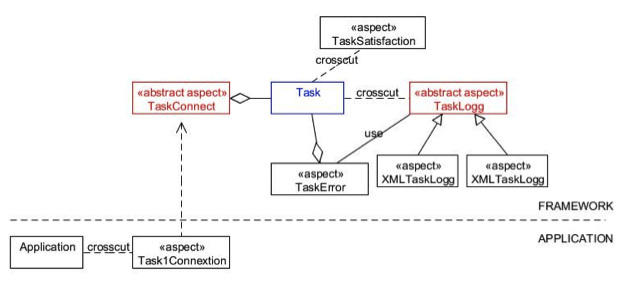
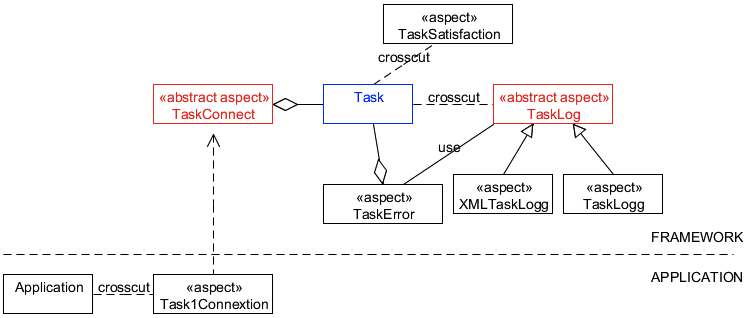
se modificaron los tex segun reunion 2/7, se reemplazaron 2 figuras y se formateo bibliografia

Changed region(s): [[0.0, 0.0, 1.0, 1.0]]

diff --git a/secciones/framework_aspectual.tex b/secciones/framework_aspectual.tex
@@ -1,20 +1,18 @@
 \section{Framework Aspectual para aplicaciones de escritorio orientado a tareas}
 \label{sec:framework_aspectual}
 
-Los frameworks~\cite{JOHNSON1997} [y] pueden reducir los costos de desarrollo ya que permiten a los desarrolladores reusar experiencias previas en la resolución de problemas en los niveles de diseño e implementación del software. Investigaciones anteriores han demostrado que se pueden lograr altos niveles de reutilización del software a través del uso de frameworks ya que capturan aspectos comunes de una familia de aplicaciones. 
-El esquema de la Fig.~\ref{fig:fig2} ilustra de manera general la aplicación del framework desarrollado. El objetivo del framework es proveer mecanismos que posibiliten la evaluación de usabilidad automática aplicando el modelo presentado en la Sección~\ref{sec:eval_usabilidad}. Para diferentes aplicaciones de escritorio se proporciona un conjunto de módulos (clases-aspectos) que mediante la especialización de ciertos aspectos abstractos permiten reusar el diseño e implementación para calcular métricas y obtener información de la eficiencia, efectividad y satisfacción de las tareas de usuario.
-
+Los frameworks~\cite{JOHNSON1997} pueden reducir los costos de desarrollo ya que permiten a los desarrolladores reusar experiencias previas en la resolución de problemas en los niveles de diseño e implementación del software. Investigaciones anteriores han demostrado que se pueden lograr altos niveles de reutilización del software a través del uso de frameworks ya que capturan aspectos comunes de una familia de aplicaciones. 
+El esquema de la Figura~\ref{fig:fig2} ilustra de manera general la aplicación del framework desarrollado. El objetivo del framework es proveer mecanismos que posibiliten la evaluación de usabilidad automática aplicando el modelo presentado en la Sección~\ref{sec:eval_usabilidad}. Para diferentes aplicaciones de escritorio se proporciona un conjunto de módulos (clases-aspectos) que mediante la especialización de ciertos aspectos abstractos permiten reusar el diseño e implementación para calcular métricas y obtener información de la eficiencia, efectividad y satisfacción de las tareas de usuario.
 %insertar fig2.png
 \begin{figure*}[ht!]
 	\centering
-	\includegraphics[scale=1]{figs/fig2.png}
+	\includegraphics[scale=0.70]{figs/fig2.png}
 	\caption{\label{fig:fig2} Esquema general del framework.}
 \end{figure*}
 
-
 \subsection{Requerimientos}
 \label{subsec:requerimientos}
-El framework ha sido construido desde cero aplicando un proceso iterativo de sucesivos refinamientos. Inicialmente se estableció el concepto y alcance de tarea. Definitivamente la tarea es un conjunto de acciones \colorbox{green}{significativas para el usuario} que ocurre-sucede durante la ejecución de la aplicación. Sin embargo, este concepto no está representado como entidad del sistema, por ser un concepto subyacente y subjetivo. La tarea entonces debe ser representada en el framework, resultando esta abstracción de una relevancia central dado que todo el framework requiere mantener relaciones e interacciones que son dependientes de la misma. Desde esta visión una  tarea es una entidad subyacente a la aplicación que requiere encapsular un conjunto de estados y comportamiento interno,  puesto que realiza una o más operaciones y provee un comportamiento global para lograr el objetivo específico. Por lo cual, cualquier y toda tarea podrá ser relacionada con algún evento del sistema que establece su inicio y también con otro evento que indica su finalización. Una tarea podrá ser instanciada diversas veces en la misma o distintas ejecuciones de la aplicación (sesiones), cada instancia deberá ser identificable, ya que comporta diferentes valores para los estados descriptores. 
+El framework ha sido construido desde cero aplicando un proceso iterativo de sucesivos refinamientos. Inicialmente se estableció el concepto y alcance de tarea. Definitivamente la tarea es un conjunto de acciones significativas para el evaluador que \colorbox{green}{ocurre-sucede} durante la ejecución de la aplicación. Sin embargo, este concepto no está representado como entidad del sistema, por ser un concepto subyacente y subjetivo. La tarea entonces debe ser representada en el framework, resultando esta abstracción de una relevancia central dado que todo el framework requiere mantener relaciones e interacciones que son dependientes de la misma. Desde esta visión una  tarea es una entidad subyacente a la aplicación que requiere encapsular un conjunto de estados y comportamiento interno,  puesto que realiza una o más operaciones y provee un comportamiento global para lograr el objetivo específico. Por lo cual, cualquier y toda tarea podrá ser relacionada con algún evento del sistema que establece su inicio y también con otro evento que indica su finalización. Una tarea podrá ser instanciada diversas veces en la misma o distintas ejecuciones de la aplicación (sesiones), cada instancia deberá ser identificable, ya que comporta diferentes valores para los estados descriptores. 
 
 A partir del planteo de un escenario general y abstracto se ha procedido a identificar el conjunto de eventos que desencadenan las acciones que ejecutará y/o controlará el framework y el tipo de módulo (clase o aspecto) del framework que será responsable de ejecutar la función correspondiente (Tabla~\ref{tab:tab1}).  Los  eventos se clasifican en dos categorías según su origen. Los eventos de la aplicación (se ha producido un error mientras se ejecutaba la tarea) o los eventos pueden ser activados  por el mismo framework (se instancia una tarea). Asimismo un evento puede desencadenar una o más acciones, las cuales pueden ser llevadas a cabo por distintos módulos. 
 
@@ -33,12 +31,12 @@ A partir del planteo de un escenario general y abstracto se ha procedido a ident
                     &                                                                                                   & A4  & Logging inicio de la tarea                                                           & Aspecto                     \\ \hline
 \multirow{2}{*}{E3} & \multirow{2}{*}{\begin{tabular}[c]{@{}l@{}}Ejecución del \\ fin de una tarea (D)\end{tabular}}    & A5  & Interceptar el fin de una tarea                                                      & \multirow{2}{*}{Aspecto}    \\ \cline{3-4}
                     &                                                                                                   & A6  & Ordenar el fin de la tarea                                                           &                             \\ \hline
-\multirow{3}{*}{E4} & \multirow{3}{*}{Finalizar la tarea (F)}                                                           & A10 & Registrar fin de la tarea                                                            & Clase                       \\ \cline{3-5} 
-                    &                                                                                                   & A11 & \begin{tabular}[c]{@{}l@{}}Proporcionar el \\ Cuestionario Satisfacción\end{tabular} & \multirow{2}{*}{Aspecto}    \\ \cline{3-4}
-                    &                                                                                                   & A12 & Logging Datos del fin de la tarea                                                    &                             \\ \hline
-\multirow{3}{*}{E5} & \multirow{3}{*}{Seproduce un error (D)}                                                           & A7  & Identificar el error                                                                 & \multirow{2}{*}{Aspecto}    \\ \cline{3-4}
-                    &                                                                                                   & A8  & Logging errores                                                                      &                             \\ \cline{3-5} 
-                    &                                                                                                   & A9  & Contabilizar error                                                                   & Clase                       \\ \hline
+\multirow{3}{*}{E4} & \multirow{3}{*}{Se produce un error (D)}                                                          & A7 & Identificar el error                                                                  & \multirow{2}{*}{Aspecto}    \\ \cline{3-4} 
+                    &                                                                                                   & A8 & Logging errores									     &  	   		   \\ \cline{3-5}
+                    &                                                                                                   & A9 & Contabilizar error                                                                    & Clase                       \\ \hline
+\multirow{3}{*}{E5} & \multirow{3}{*}{Finalizar la tarea (F)}                                                           & A10  & Registrar fin de la tarea                                                           & Clase    		   \\ \cline{3-5}
+                    &                                                                                                   & A11  & \begin{tabular}[c]{@{}l@{}}Proporcionar el \\ Cuestionario Satisfacción\end{tabular}& \multirow{2}{*}{Aspecto}    \\ \cline{3-4}
+                    &                                                                                                   & A12  & Logging Datos del fin de la tarea                                                   &     			   \\ \hline 
 \end{tabular}
 \end{table}
 
@@ -48,14 +46,12 @@ Los eventos E1 y E3, originados en el dominio (D), permiten identificar, delimit
 \label{subsec:disenio_e_implementacion}
 
 En la Figura~\ref{fig:fig3} se presenta el diseño del framework, la implementación está desarrollada en Java y AspectJ. La clase Task constituye el núcleo del framework, dado que mantiene diversas relaciones con los restantes módulos. Los aspectos tienen un rol preponderante, ya que son necesarios para conectar la tarea con la aplicación y para comunicarla con otros servicios del framework (logging). El aspecto TaskConnect conecta a la tarea con los correspondientes eventos de inicio y finalización y realiza las acciones de crear la instancia de la Task y ordenar su finalización. El aspecto TaskError intercepta los errores que se producen en la ejecución de la tarea creada por TaskConnect y el aspecto TaskSatisfaction facilita un formulario que permite registrar la información subjetiva cuando la tarea ha sido finalizada. El aspecto TaskLog registra el logging de las tareas, cuando estas se crean, finalizan o generan otros eventos, de manera que es dependiente de la tarea y no de la aplicación. 
-
 %insertar fig3
 \begin{figure*}[ht!]
 	\centering
-	\includegraphics[scale=1]{figs/fig3.png}
+	\includegraphics[scale=0.47]{figs/fig3.png}
 	\caption{\label{fig:fig3}  Diseño del framework.}
 \end{figure*}
-
 A continuación se presenta los principales detalles del diseño interno e implementación de los módulos del framework. Cómo se mencionó la clase Task representa una tarea del usuario. Tiene diversos estados que permiten calcular posteriormente métricas o que van acumulando los valores de las mismas. Estos estados son inicializados en su instanciación. El atributo init se inicializa con la hora del sistema y el atributo complete con el valor falso. Estos dos atributos serán posteriormente actualizados por el método finalize (cuando la tarea finaliza) y usados para calcular el tiempo (eficiencia de la tarea) y si se ha completado (efectividad de la tarea). Para cada atributo que permite contabilizar errores como los atributos relacionados a la satisfacción existen métodos que permiten su correcta actualización. 
 
 \begin{verbatim}
@@ -66,12 +62,10 @@ class Task  {
   private int #exception, sat1, sat2, sat3;
   Task(..){
      // inicialización de estados}
-   ..
    …
   finalize()
     {// actualización de estados }
 }
-
 \end{verbatim}
 
 El aspecto abstracto TaskConnect conecta la tarea con la aplicación. Dos pointcuts abstractos startTask y endTask son necesarios para definir los join-points (clase y método del dominio)  en los cuales comienza y finaliza cada tarea. Estos deberán ser definidos en un aspecto concreto por el desarrollador, que deberá crear un subaspecto por cada tarea de usuario distinta que pretenda evaluar. TaskConnect  tiene por atributo una tarea, (objeto  de tipo Task) que es instanciado por dicho aspecto cuando el pointcut startTask es activado y se ejecuta el aviso asociado, lo cual ocurre antes de que cada tarea inicie. De manera similar, este aspecto ordena la finalización de la tarea cuando luego que se activa el pointcut endTask, por medio del aviso asociado, se invoca al método.  
@@ -82,7 +76,6 @@ abstract aspect TaskConnect {
    private Task t;
    abstract pointcut starTask; 
    abstract pointcut endTask;
-
    before() : initTask();
    {  this.setTask();
       t = new Task(idTask);}
@@ -90,19 +83,15 @@ abstract aspect TaskConnect {
    { t.finalize(); }
 }
 \end{verbatim}
-
 El aspecto TaskError tiene por objeto interceptar los errores que se producen durante la ejecución de una tarea y ordenar la actualización de los acumuladores correspondientes de la tarea. El aspecto mantiene una referencia a la tarea instanciada, por medio del pointcut beginning y el atributo monitored\_task. Luego por cada tipo de error que se registra, se define un pointcut y advice. Tal es el caso del pointcut exception, cuyo objetivo es interceptar las excepciones que se producen mientras la tarea se ejecuta. Para ello es necesario especificar varias condiciones, que permiten delimitar al conjunto de excepciones que se producen. Estas restricciones debido a que también son necesarias para la intercepción de otros tipos errores se especifican en forma aislada e individual en los pointcuts condition\_1, condition\_2 y condition\_3. Luego en el pointcut exception se combinan con el descriptor de pointcut más específico, para este caso, handler. El advice asociado, primero actualiza el contador de excepciones de la tarea y luego ordena el log del error, operación que realiza el aspecto TaskLog. 
-
 \begin{verbatim}
 aspect TaskError {
   Task monitored_task=null;
   pointcut inicialization():    
                initialization(Task.new(String));
-
   pointcut beginning(Task t):inicialization()&&this(t);
   after(Task t): beginning(t)
     {monitored_task=t;} 
-
   pointcut condition_1():!cflow(adviceexecution)
   pointcut condition_2():!cflow(inicialization) 
   pointcut condition_3():if ((monitored_task!=null)&&
@@ -111,17 +100,13 @@ aspect TaskError {
                 handler(Throwable+) && args(e)
                 && condition_1() && condition_2()
                 && condition_3()
-
   before(Throwable e): exception(e) {
      // actualizar monitored_task;
      TaskLog.aspectof().logException(e);
   }
 }
-
 \end{verbatim}
-
 Cuando se produce la finalización de una tarea, (el método finalize de Task es invocado por el aspecto TaskConnect), el aspecto TaskSatisfaction proporciona un cuestionario que permite obtener información subjetiva del usuario relacionada a la dimensión satisfacción. Este formulario es muy simple, permite al usuario elegir un valor entre 1 y 5 para cada una de las 3 preguntas que se muestran en pantalla. 
-
 \begin{verbatim}
 aspect TaskSatisfaction {
    pointcut satisfaction(Task t):
@@ -132,15 +117,12 @@ aspect TaskSatisfaction {
 	// actualizar atrubutos sat1..de t
    return;}
 }
-
 \end{verbatim}
-
 Finalmente el aspecto TaskLog  realiza el logging de la tarea en diversos momentos. Es una aspecto abstracto debido a que el log puede realizarse en diversos formatos (texto / xml / base de datos / consola). Los pointcut están definidos de manera concreta, ya que este aspecto está supeditado por completo a los cambios en la tarea.  
-
 \begin{verbatim}
 abstract aspect TaskLog {
    abstract void logException() // log de excepciones
-   abstract void logTask() {//}
+   abstract void logTask() 
    pointcut logSart(Task): call Task.new(..) && target(t);
    pointcut logEnd(Task): call Task.finalize(..) && target(t);
    after() : logStart()
@@ -148,7 +130,5 @@ abstract aspect TaskLog {
    after() : logEnd()
    { logTask(t);}
 }
-
 \end{verbatim}
-
-El diseño e implementación de los módulos del framework se ha apoyado en distintos patrones de diseño aspectuales [xx]. Por ejemplo, en el caso de TaskConnect se aplicaron los patrones Abstract Pointcut y Template Advice, en TaskError se aplicó el patrón Composite Pointcut y en TaskLog se aplicó el patrón Template Advice.
+El diseño e implementación de los módulos del framework se ha apoyado en distintos patrones de diseño aspectuales~\cite{HS2003}. Por ejemplo, en el caso de TaskConnect se aplicaron los patrones Abstract Pointcut y Template Advice, en TaskError se aplicó el patrón Composite Pointcut y en TaskLog se aplicó el patrón Template Advice.

diff --git a/secciones/trabajos_relacionados.tex b/secciones/trabajos_relacionados.tex
@@ -1,11 +1,17 @@
 \section{Trabajos Relacionados}
 \label{sec:trabajos_relacionados}
-Como se mencionó anteriormente existen contribuciones que aplican AOP para la evaluación de la usabilidad de aplicaciones de escritorio. La principal diferencia con estos trabajos es que no distinguen a la Tarea entre los aspectos. Los aspectos hacen el seguimiento de eventos y registran datos simplemente. Se requiere mayor intervención del desarrollador, es decir, son esquemas menos reusables y flexibles.
-Tarta y Moldovan~\cite{TM2006} [7] proponen un diseño de aspectos que soporta la evaluación automática de la usabilidad en aplicaciones de escritorio. Se plantea que mediante una jerarquía de aspectos se pueden reusar pointcuts que compartan los mismos puntos de entrada y salida (join-points). Los aspectos derivados definen nuevos pointcuts para la intercepción de errores, completitud de tareas, captura de pantallas y adquisición de datos por medio de cuestionarios. Los aspectos concretos por medio de los advices realizan el log de los datos. Aquí los aspectos hacen el seguimiento y el logging en el mismo aspecto pero en reiteradas veces dado que existen aspectos para los errores, el cálculo del tiempo, etc. y por ende el desarrollador debe configurar mas aspectos, pero se pierde la noción de la tarea, por lo que toda la estructura es específica de cada aplicación en la que se use. Se presentan simples diagramas y código de ejemplo en AspectJ.
-Shekh y Tyerman~\cite{ST2010} [8] presentan el desarrollo de un framework AOP para la evaluación de la usabilidad con AOP. Las autoras registran los eventos de IU, por ejemplo los eventos del mouse. Respecto de las características del framework y diseño de aspectos no se brindan detalles, pero se indica que han seguido las recomendaciones de~\cite{TM2006} [7]. El framework esta desarrollado en AspectJ. Se presentan resultados de experimentos controlados y pautados en un laboratorio.
+Como se mencionó anteriormente, existen contribuciones que aplican AOP para la evaluación de la usabilidad de aplicaciones de escritorio~\cite{TM2006,ST2010,HBS2011,TAO2008,TAO2012,BGO+2009,HDC2009}. La principal diferencia con estos trabajos es que no distinguen a la Tarea entre los aspectos. Los aspectos hacen el seguimiento de eventos y registran datos simplemente. Se requiere mayor intervención del desarrollador, es decir, son esquemas menos reusables y flexibles.
 
-Holzinger y otros~\cite{HBS2011} [9] proponen la implementación de aspectos para seguir la trayectoria de algunos eventos de interface (entrada del teclado, menúes y acciones arrastrar y soltar). Se plantea usar Objective-C, agregando los aspectos a la jerarquía de objetos usando la tecnología “método swizzling”, y extendiendo de clases. El diseño se centra en un aspecto que realiza el logging de manera centralizada y tres aspectos son necesarios para identificar los eventos de interface mencionados. 
-\colorbox{green}{Yonglei Tao}~\cite{TAO2008} [10] propone AOP para capturar automáticamente eventos de la interface de usuario en aplicaciones con arquitectura MVC (modelo-vista-controlador). Se propone una jerarquía de aspectos, en la cual se logra reusar solo el método que realiza el reporte (hora-fecha y evento ocurrido), los pointcuts y advices deben ser redefinidos en cada caso y aplicación, por ejemplo actualización de observer, manejadores y notificadores de eventos, cuadros de diálogo. Se presentan códigos de ejemplo en AspectJ y un caso de estudio simple.  
-Un esquema muy similar al anterior, es el que presenta \colorbox{green}{Yonglei Tao}~\cite{TAO2012} [11], ya que este enfoque se basa en técnicas OA para ejecutar las trazas de los eventos de interface de usuario y recolectar información contextual, en aplicaciones de escritorio (WIMP). Propone una jerarquía de aspectos, la cual consiste básicamente en un método  que contiene la lógica que permite hacer el reporte, los sub-aspectos definen los eventos a interceptar en los pointcuts y los advice que invocan al método que ejecuta el reporte. Se presentan simples códigos de ejemplo en AspectJ.
-Bateman y otros~\cite{BGO+2009} [12] presentan el enfoque “Instrumentación Interactiva de Usabilidad” (IIU). Los evaluadores de usabilidad especifican qué acciones serán registradas (log) interactuando con los elementos de la interfaz de la aplicación objeto de la evaluación, eliminando la necesidad de apoyo adicional de programación. Esta primera actividad se apoya en AOP, y permite la instrumentación a través de la interacción directa con la aplicación a ser instrumentada; se decide qué elementos (interfaz) de un sistema están relacionados con tareas particulares y problemas de usabilidad. 
-Humayoun y otros~\cite{HDC2009} [13] presentan la herramienta UEMan que permite gestionar y automatizar actividades de la evaluación de la usabilidad desde un enfoque UCD (diseño centrado en el usuario) durante el proceso de desarrollo de software. El modelo y la herramienta incorporan el concepto de tarea de usuario y facilita la ejecución de diversos tipos de experimentos: experimentos de evaluación heurística, experimentos de tipo tarea, experimentos basados en cuestionarios y experimentos dinámicos que emplean logging implementado con aspectos. La herramienta usa aspectos para operaciones muy básicas como, hacer el Timer (duración) de una actividad (desde un punto de entrada hasta un punto de salida, definido mediante dos pointcuts) y contar la cantidad de clicks del mouse y teclas presionadas en dicho intervalo.
+%Tarta y Moldovan~\cite{TM2006} proponen un diseño de aspectos que soporta la evaluación automática de la usabilidad en aplicaciones de escritorio. Se plantea que mediante una jerarquía de aspectos se pueden reusar pointcuts que compartan los mismos puntos de entrada y salida (join-points). Los aspectos derivados definen nuevos pointcuts para la intercepción de errores, completitud de tareas, captura de pantallas y adquisición de datos por medio de cuestionarios. Los aspectos concretos por medio de los advices realizan el log de los datos. Aquí los aspectos hacen el seguimiento y el logging en el mismo aspecto pero en reiteradas veces dado que existen aspectos para los errores, el cálculo del tiempo, etc. y por ende el desarrollador debe configurar más aspectos, pero se pierde la noción de la tarea, por lo que toda la estructura es específica de cada aplicación en la que se use. Se presentan simples diagramas y código de ejemplo en AspectJ.
+
+%Shekh y Tyerman~\cite{ST2010} presentan el desarrollo de un framework AOP para la evaluación de la usabilidad con AOP. Las autoras registran los eventos de UI, por ejemplo los eventos del mouse. Respecto de las características del framework y diseño de aspectos no se brindan detalles, pero se indica que han seguido las recomendaciones de~\cite{TM2006}. El framework está desarrollado en AspectJ. Se presentan resultados de experimentos controlados y pautados en un laboratorio.
+
+%Holzinger y otros~\cite{HBS2011} proponen la implementación de aspectos para seguir la trayectoria de algunos eventos de interface (entrada del teclado, menúes y acciones arrastrar y soltar). Se plantea usar Objective-C, agregando los aspectos a la jerarquía de objetos usando la tecnología “método swizzling”, y extendiendo de clases. El diseño se centra en un aspecto que realiza el logging de manera centralizada y tres aspectos son necesarios para identificar los eventos de interface mencionados. 
+
+%Tao~\cite{TAO2008} propone AOP para capturar automáticamente eventos de la interfaz de usuario en aplicaciones con arquitectura MVC (modelo-vista-controlador). Se propone una jerarquía de aspectos, en la cual se logra reusar solo el método que realiza el reporte (hora-fecha y evento ocurrido), los pointcuts y advices deben ser redefinidos en cada caso y aplicación, por ejemplo actualización de observador, manejadores y notificadores de eventos, cuadros de diálogo. Se presentan códigos de ejemplo en AspectJ y un caso de estudio simple.
+  
+%Un esquema muy similar al anterior, es el que presenta Tao~\cite{TAO2012}, ya que este enfoque se basa en técnicas AO para ejecutar las trazas de los eventos de interfaz de usuario y recolectar información contextual, en aplicaciones de escritorio (WIMP). Propone una jerarquía de aspectos, la cual consiste básicamente en un método  que contiene la lógica que permite hacer el reporte, los sub-aspectos definen los eventos a interceptar en los pointcuts y los advice que invocan al método que ejecuta el reporte. Se presentan simples códigos de ejemplo en AspectJ.
+
+%Bateman y otros~\cite{BGO+2009}presentan el enfoque “Instrumentación Interactiva de Usabilidad” (IIU). Los evaluadores de usabilidad especifican qué acciones serán registradas (log) interactuando con los elementos de la interfaz de la aplicación objeto de la evaluación, eliminando la necesidad de apoyo adicional de programación. Esta primera actividad se apoya en AOP, y permite la instrumentación a través de la interacción directa con la aplicación a ser instrumentada; se decide qué elementos (interfaz) de un sistema están relacionados con tareas particulares y problemas de usabilidad. 
+
+%Humayoun y otros~\cite{HDC2009} presentan la herramienta UEMan que permite gestionar y automatizar actividades de la evaluación de la usabilidad desde un enfoque UCD (diseño centrado en el usuario) durante el proceso de desarrollo de software. El modelo y la herramienta incorporan el concepto de tarea de usuario y facilita la ejecución de diversos tipos de experimentos: de evaluación heurística, de tipo tarea, basados en cuestionarios y experimentos dinámicos que emplean logging implementado con aspectos. La herramienta usa aspectos para operaciones muy básicas como, hacer el Timer (duración) de una actividad (desde un punto de entrada hasta un punto de salida, definido mediante dos pointcuts) y contar la cantidad de clicks del mouse y teclas presionadas en dicho intervalo.

diff --git a/secciones/intro.tex b/secciones/intro.tex
@@ -1,9 +1,9 @@
 \section{Introducción}
 \label{sec:intro}
 
-La evaluación de usabilidad ~\cite{ISO1998}  [1] automática refiere a la posibilidad de disponer medios basados software para realizar alguna de las actividades en las que se descompone, captura de datos, análisis o crítica~\cite{IH2001} [2]. En lo que respecta a la captura de datos automatizada se ha caracterizado por usar archivos de logs. Sus ventajas son varias: soportan la ejecución de las pruebas en laboratorios de usabilidad o en el ambiente natural del usuario; son transparentes para los usuarios; permiten con facilidad obtener información de múltiples usuarios; permiten detectar errores comunes y actuales; etc. Los logs aportan gran cantidad de datos a los evaluadores de usabilidad, además de posibilitar la contrastación del comportamiento entre diferentes usuarios. Sin embargo, tienen desventajas, los logs generados por servidores webs o sistemas operativos, generan una gran cantidad de datos que resulta irrelevante para la evaluación de usabilidad, y son incapaces de registrar información específica. Por otro lado, añadir en las aplicaciones el código que realiza el logging de las actividades y  tareas de usuario que interesan al evaluador de usabilidad, implica invadir la estructura interna de las aplicaciones agregando cientos de líneas de código, cuya remoción posterior es muy compleja.
+La evaluación de usabilidad~\cite{ISO1998} automática refiere a la posibilidad de disponer de medios basados en software para realizar alguna de las actividades en las que se descompone (captura de datos, análisis o crítica)~\cite{IH2001}. En lo que respecta a la captura de datos automatizada se ha caracterizado por usar archivos de logs. Sus ventajas son varias: soportan la ejecución de las pruebas en laboratorios de usabilidad o en el ambiente natural del usuario; son transparentes para los usuarios; permiten con facilidad obtener información de múltiples usuarios; permiten detectar errores comunes y actuales; etc. Los logs aportan gran cantidad de datos a los evaluadores de usabilidad, además de posibilitar la contrastación del comportamiento entre diferentes usuarios. Sin embargo, tienen desventajas, los logs generados por servidores webs o sistemas operativos, generan una gran cantidad de datos que resulta irrelevante para la evaluación de usabilidad, y son incapaces de registrar información específica. Por otro lado, añadir en las aplicaciones el código que realiza el logging de las actividades y  tareas de usuario que interesan al evaluador de usabilidad, implica invadir la estructura interna de las aplicaciones agregando cientos de líneas de código, cuya remoción posterior es muy compleja.
 
-Las técnicas de separación de concerns~\cite{KLM+1997} [3], y en particular de la Programación Orientada a Aspectos (AOP)~\cite{NIELSEN1992} [4], proporcionan mecanismos para diseñar e implementar módulos de código que realicen la traza y el logging sin invadir y/o alterar la estructura interna de los sistemas. La posibilidad de realizar la recolección de los datos en forma dinámica, transparente para el usuario y separada del código de las aplicaciones a evaluar, ha provocado interés y varios enfoques se han presentado que aplican AOP a la evaluación de usabilidad. En particular aquellos propuestos para aplicaciones de escritorio (WIMP) ofrecen esquemas para la evaluación a bajo nivel. Posibilitan la traza de los elementos o eventos de interfaces y/o errores pero sin un contexto de significado (tarea) para el evaluador. En consecuencia carecen de una relevancia real a la hora de interpretar los resultados y/o calcular métricas, y proporcionar información útil para emitir una opinión al evaluador de usabilidad. 
+Las técnicas de separación de concerns~\cite{KLM+1997} \colorbox{green}{[3]}, y en particular de la Programación Orientada a Aspectos (AOP)~\cite{NIELSEN1992} \colorbox{green}{[4]}, proporcionan mecanismos para diseñar e implementar módulos de código que realicen la traza y el logging sin invadir y/o alterar la estructura interna de los sistemas. La posibilidad de realizar la recolección de los datos en forma dinámica, transparente para el usuario y separada del código de las aplicaciones a evaluar, ha provocado interés y varios enfoques se han presentado que aplican AOP a la evaluación de usabilidad. En particular aquellos propuestos para aplicaciones de escritorio (WIMP) ofrecen esquemas para la evaluación a bajo nivel. Posibilitan la traza de los elementos o eventos de interfaces y/o errores pero sin un contexto de significado (tarea) para el evaluador. En consecuencia carecen de una relevancia real a la hora de interpretar los resultados y/o calcular métricas, y proporcionar información útil para emitir una opinión al evaluador de usabilidad. 
 
 Luego de analizar los diseños presentados, se puede concluir que la razón radica en el hecho de que el concepto de “tarea” no es común en los vocabularios que participan de un escenario de evaluación de usabilidad y por ende no está presente en ambos contextos. En los sistemas software se representan los conceptos del dominio y lógica de negocios tales como: Cuenta, Cliente, Factura, Impuesto, Stock, etc., mientras que los evaluadores de usabilidad buscan identificar, analizar e interpretar  tareas de usuario. En los sistemas software  las “tareas de usuario” resultan ser entidades intangibles e inexistentes. Es por ello que los módulos (aspectos) que se diseñan e implementan para llevar adelante en forma automática las pruebas de la usabilidad, se restringen a los conceptos (entidades) existentes (métodos / atributos y clases del dominio), perdiéndose la concepción de la tarea. Planteamos como hipótesis, que sí es posible colocar en el centro la tarea, como concepto y como entidad, y por medio de aspectos conectarla al dominio y a los servicios que se requieran para la evaluación, entonces podrá ser identificada y analizada. En consecuencia se obtendrán datos que puedan ser interpretados a mayor nivel semántico y se lograrán resultados de mayor nivel de abstracción. 
 

diff --git a/secciones/eval_usabilidad.tex b/secciones/eval_usabilidad.tex
@@ -1,15 +1,14 @@
 \section{Evaluación de Usabilidad}
 \label{sec:eval_usabilidad}
 
-La evaluación de la usabilidad consiste en realizar pruebas que proporcionen información con el propósito de identificar debilidades relacionadas al uso de las aplicaciones de software. Los objetivos de la evaluación pueden ser mejorar aspectos deficientes del software o realizar la comparación entre distintos software que ofrecen las mismas prestaciones. Las formas más comunes de evaluación son: automática (se registran datos y/o se calculan las métricas durante la ejecución de la aplicación), empírica (la usabilidad es evaluada testeando la aplicación con usuarios reales en laboratorios controlados), formal (usando modelos formales y fórmulas para el cálculo de medidas de usabilidad), e informal (basados en reglas generales y la habilidad y experiencia de los evaluadores). Los métodos no son excluyentes, la combinación de los mismos puede ofrecer información complementaria. El  proceso de evaluación implica varias actividades en función del método empleado, pero en general se agrupan en 3 pasos básicos: Captura de datos, Análisis y Crítica.
-Desde las propuestas de Nielsen~\cite{NIELSEN1992} [4] hasta la actualidad, se han planteado una extensa y diversa cantidad de modelos y métricas para la evaluación de la usabilidad, por lo que en este trabajo no se proponen nuevas métricas. En su lugar se adoptará una propuesta que sirva al framework, que sea un modelo simple pero que puede escalar y sobre todo que haga eje en el concepto de tarea. El modelo de alto-nivel propuesto por Sauro y Kindlund~\cite{SK2005} [5] además de cumplir con las dimensiones ISO/ANSI (eficiencia, efectividad y satisfacción) logra sintetizar en cuatro métricas estas dimensiones y permite derivar otros indicadores útiles, como se ilustra en la Fig.~\ref{fig:fig1}. 
-
-\begin{figure*}[ht!]
-	\centering
-	\includegraphics[scale=1]{figs/fig1.png}
-	\caption{\label{fig:fig1} Modelo de Sauro y Kindlund~\cite{SK2005} \colorbox{green}{[4]}.}
-\end{figure*}
-
+%La evaluación de la usabilidad consiste en realizar pruebas que proporcionen información con el propósito de identificar debilidades relacionadas al uso de las aplicaciones de software. Los objetivos de la evaluación pueden ser mejorar aspectos deficientes del software o realizar la comparación entre distintos software que ofrecen las mismas prestaciones. Las formas más comunes de evaluación son: automática (se registran datos y/o se calculan las métricas durante la ejecución de la aplicación), empírica (la usabilidad es evaluada testeando la aplicación con usuarios reales en laboratorios controlados), formal (usando modelos formales y fórmulas para el cálculo de medidas de usabilidad), e informal (basados en reglas generales y la habilidad y experiencia de los evaluadores). Los métodos no son excluyentes, la combinación de los mismos puede ofrecer información complementaria. 
+El  proceso de evaluación implica varias actividades en función del método empleado, pero en general se agrupan en 3 pasos básicos: Captura de datos, Análisis y Crítica.
+Desde las propuestas de Nielsen~\cite{NIELSEN1992} hasta la actualidad, se han planteado una extensa y diversa cantidad de modelos y métricas para la evaluación de la usabilidad, por lo que en este trabajo no se proponen nuevas métricas. En su lugar se adoptará una propuesta que sirva al framework, que sea un modelo simple pero que puede escalar y sobre todo que haga eje en el concepto de tarea. El modelo de alto-nivel propuesto por Sauro y Kindlund~\cite{SK2005} además de cumplir con las dimensiones ISO/ANSI (eficiencia, efectividad y satisfacción) logra sintetizar en cuatro métricas estas dimensiones y permite derivar otros indicadores útiles.%, como se ilustra en la Fig.~\ref{fig:fig1}. 
+%\begin{figure*}[ht!]
+%	\centering
+%	\includegraphics[scale=1]{figs/fig1.png}
+%	\caption{\label{fig:fig1} Modelo de Sauro y Kindlund~\cite{SK2005}[5].}
+%\end{figure*}
 %insertar fig1.png
 
 La eficiencia se mide calculando el tiempo de la tarea, la efectividad se mide contabilizando el total de errores producidos durante la ejecución de la tarea y si ésta se ha completado. Por último, la satisfacción es un valor promedio obtenido de 3 ítems de valoración subjetivos, basados en una puntuación (1 a 5) que representan la complejidad de la tarea para el usuario, la satisfacción y la consideración del tiempo que le ha requerido dicha tarea). 

diff --git a/secciones/casos_de_estudio.tex b/secciones/casos_de_estudio.tex
@@ -2,7 +2,6 @@
 \label{sec:casos_de_estudio}
  
  El desarrollo iterativo del framework implicó la ejecución de pruebas con cada versión del framework obtenida. El mismo ha sido probado y validado empleando dos aplicaciones de escritorio JMoney (http://jmoney.sourceforge.net/) y Freemind (http://freemind.sourceforge.net/). 
- 
 %\begin{description}
 %
 %\item[JMoney]
@@ -13,15 +12,11 @@
 %
 %%Es una herramienta para la creación de mapas mentales. Tiene 50 paquetes, 820 clases, 6974 métodos, 2816 atributos. Se compone de 108.378 líneas de código. 
 %\end{description}
-
-Para cada una se crearon diversas tareas y en cada iteración se configuró el framework. Los principales objetivos de las pruebas fueron constatar que el registro de los datos y cálculo de las métricas funcionaba correctamente; y comprobar el nivel de reúso, configuración y especialización. A continuación se presenta una tarea para cada caso de estudio, el aspecto que fue adaptado  y el resultado de las pruebas.
-
+Para cada una se crearon diversas tareas y en cada iteración se configuró el framework. Los principales objetivos de las pruebas fueron constatar que el registro de los datos y cálculo de las métricas funcionaba correctamente; y comprobar el nivel de reúso, configuración y especialización. A continuación se presenta una tarea para cada caso de estudio, el aspecto que fue adaptado  y el resultado de las pruebas (Fig.~\ref{fig:fig4} y Fig.~\ref{fig:fig5}).
 
 \begin{description}
-
 \item[Freemind]
 Tarea: Crear Mapa Mental Básico.
-
 	\begin{enumerate}
 		\item Crear un nuevo mapa, haciendo clic en el botón "Nuevo" desde la barra de herramientas, o desde el menú Archivo. 
 		\item Completar el texto del nodo raíz del mapa creado.
@@ -34,7 +29,7 @@ Tarea: Crear Mapa Mental Básico.
 %		\item Fin de la tarea: La tarea se considerará finalizada luego que el usuario guarda, por primera vez, el mapa en un archivo con el nombre solicitado. 
 %	\end{itemize}
 	\begin{verbatim}
-	public aspect FreemindTask1extends TaskConnect{
+	public aspect FreemindTask1 extends TaskConnect{
 	 private String idTask="Crear Mapa Conceptual Básico”;
 	 pointcut startTask():execution(void  
 	 freemind.modes.common.actions.NewMapAction.	\\
@@ -46,7 +41,7 @@ Tarea: Crear Mapa Mental Básico.
 	}
 	\end{verbatim}
 	%insertar fig4.png
-	\begin{figure*}[ht!]
+	\begin{figure*}[ht]
 		\centering
 		\includegraphics[scale=1]{figs/fig4.png}
 		\caption{\label{fig:fig4} Log de Tarea: Crear Mapa Conceptual Básico.}
@@ -54,16 +49,14 @@ Tarea: Crear Mapa Mental Básico.
 
 \item[JMoney]
 Tarea: Crear una nueva cuenta
-
 	\begin{enumerate}
 		\item Hacer click en el botón derecho del panel lateral y seleccionar la opción "new account".
 		\item Ingresar las propiedades de la cuenta desde el panel properties de la cuenta
 		\item Ingresar entradas en la cuenta desde el panel entries  
 		\item Salvar desde el botón "save" en la barra de herramientas o desde menú "file/save", usando combinación de teclas "ctrl+s" o respondiendo afirmativamente al mensaje de grabar los cambios antes de cerrar la aplicación.
 	\end{enumerate}
-
 	\begin{verbatim}
-		public aspect Tarea1JMoneyConnect extends TareaConnect{		
+		public aspect JMoneyTask1Connect extends TaskConnect{		
 		     private String idTask=”Crear Nueva Nuenta”;
 		     pointcut starTask():execution(void   
 		                  net.sf.jmoney.gui.MainFrame.newAccount());
@@ -72,12 +65,10 @@ Tarea: Crear una nueva cuenta
 		       execution(void net.sf.jmoney.gui.MainFrame.saveSessionAs());
 	}
 	\end{verbatim}
-
 	%insertar fig5.png
 	\begin{figure*}[ht!]
 		\centering
 		\includegraphics[scale=1]{figs/fig5.png}
 		\caption{\label{fig:fig5} Log de Tarea: Crear Nueva Cuenta.}
 	\end{figure*}
-	
 \end{description}

diff --git a/secciones/conclusiones.tex b/secciones/conclusiones.tex
@@ -1,4 +1,4 @@
 \section{Conclusiones}
 \label{sec:conclusiones}
-En este trabajo se ha presentado un framework que permite la evaluación de la usabilidad de aplicaciones de escritos de alto nivel, dado que permite obtener información y calcular métricas a nivel de tareas de usuario, en las dimensiones de eficiencia, efectividad y satisfacción. El framework automatiza la recolección de datos y algunas funciones de análisis. Aunque el framework se compone de varios módulos, el desarrollador sólo debe configurar dos pointcut de un solo aspecto (TaskConnect), para que toda la evaluación de usabilidad de una determinada tarea sea efectuada. Lo cual implica un alto nivel de reúso, del diseño y la implementación, ya que se ha logrado reducir al mínimo las condiciones de variación del problema y requerimientos de configuración. 
+En este trabajo se ha presentado un framework que permite la evaluación de la usabilidad de aplicaciones de escritorio de alto nivel, dado que permite obtener información y calcular métricas a nivel de tareas de usuario, en las dimensiones de eficiencia, efectividad y satisfacción. El framework automatiza la recolección de datos y algunas funciones de análisis. Aunque el framework se compone de varios módulos, el desarrollador sólo debe configurar dos pointcut de un solo aspecto (TaskConnect), para que toda la evaluación de usabilidad de una determinada tarea sea efectuada. Lo cual implica un alto nivel de reúso, del diseño y la implementación, ya que se ha logrado reducir al mínimo las condiciones de variación del problema y requerimientos de configuración. 
 Los trabajos futuros refieren a incorporar más funcionalidad para la registración de otros datos relacionados a la tarea con el objeto de calcular nuevas métricas. También resulta de utilidad incorporar un visor que facilite la tarea de análisis y crítica posterior al evaluador de usabilidad. Completadas estas mejoras, el paso siguiente es desarrollar y evaluar un framework para aplicaciones web.

diff --git a/cacic2014.tex b/cacic2014.tex
@@ -17,11 +17,12 @@
 %\usepackage[T1]{fontenc}
 \usepackage[utf8]{inputenc}
 %\usepackage{babel}
+\usepackage[pdftex]{hyperref}% hyperlinks de ref y cite
 
    
-\begin{document}\hyphenation{re-gis-tro de-sa-rro-llo va-rios e-va-lua-dor} 
+\begin{document}\hyphenation{re-gis-tro de-sa-rro-llo va-rios e-va-lua-dor des-com-pon-ne a-tri-bu-tos re-que-ri-mien-tos} 
 
-\title{Un Framework Aspectual para la \colorbox{green}{Evaluación Automática} \\ de Usabilidad de Tareas
+\title{Un Framework Aspectual para la Evaluación de Usabilidad Automática de Tareas
 \thanks{Este trabajo fue apoyado por el proyecto PIA315/1 y parcialmente financiado por UNPA, Sta. Cruz, Arg.}}
 
 \titlerunning{Un Framework Aspectual para la Evaluación Automática de Usabilidad de Tareas}
@@ -29,26 +30,26 @@
 % \toctitle is used
 
 \author{
-Natalia Trejo, 
- Roberto Farias, and
+Roberto Farias, 
+ Natalia Trejo y
  Sandra Casas    
 }
 
-\authorrunning{N. Trejo et al.}   % abbreviated author list (for running head)
+\authorrunning{R. Farias et al.}   % abbreviated author list (for running head)
 
 % modified list of authors for the TOC (add the affiliations)
 
 \tocauthor{
- Natalia Trejo (UARG - ITA),
  Roberto Farias  (UNPA - ITA),
+ Natalia Trejo (UARG - ITA),
  Sandra Casas (UARG - ITA)
 }
 
 
 \institute{
- Instituto de Tecnolog\'ia  Aplicada\\
+ GISP - Instituto de Tecnolog\'ia  Aplicada\\
  Universidad Nacional de la Patagonia Austral \\
- \email{ nbtrejo@gmail.com,fariasrobertoa@unpa.edu.ar,sicasas@yahoo.com} \\
+ \email{ fariasrobertoa@gmail.com,nbtrejo@gmail.com,sicasas@yahoo.com} \\
 } 
 
 
